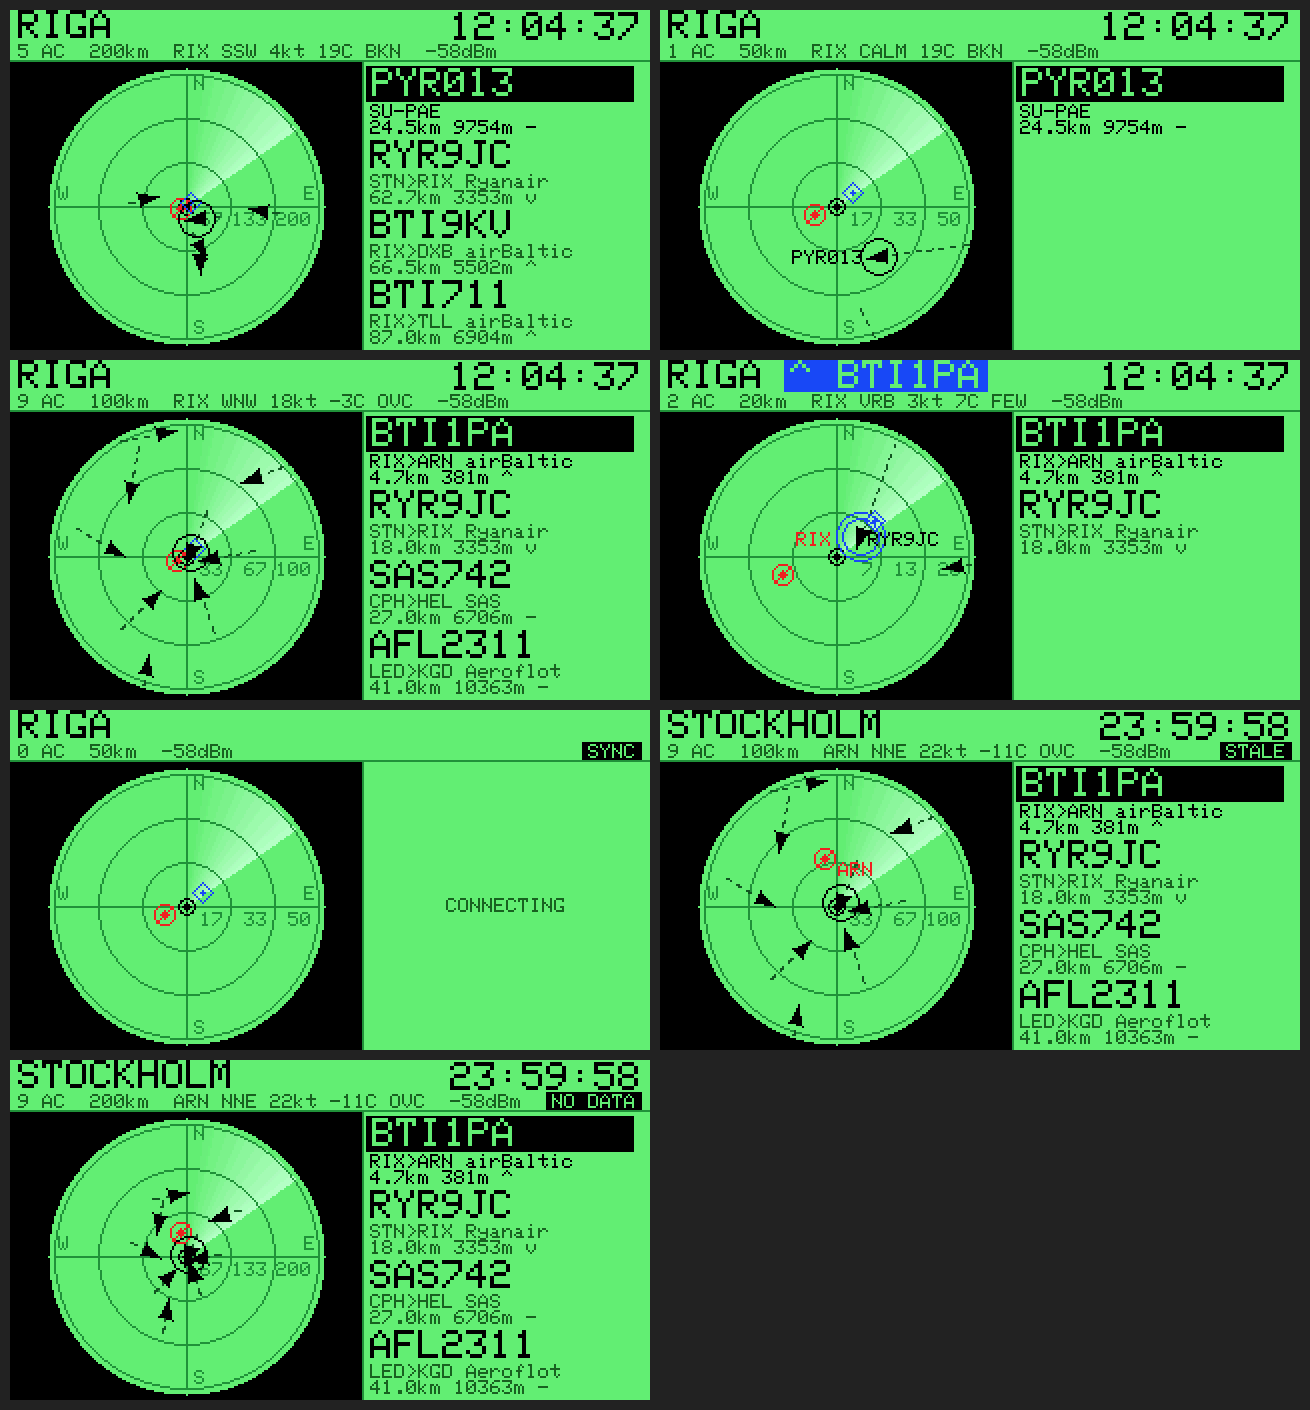
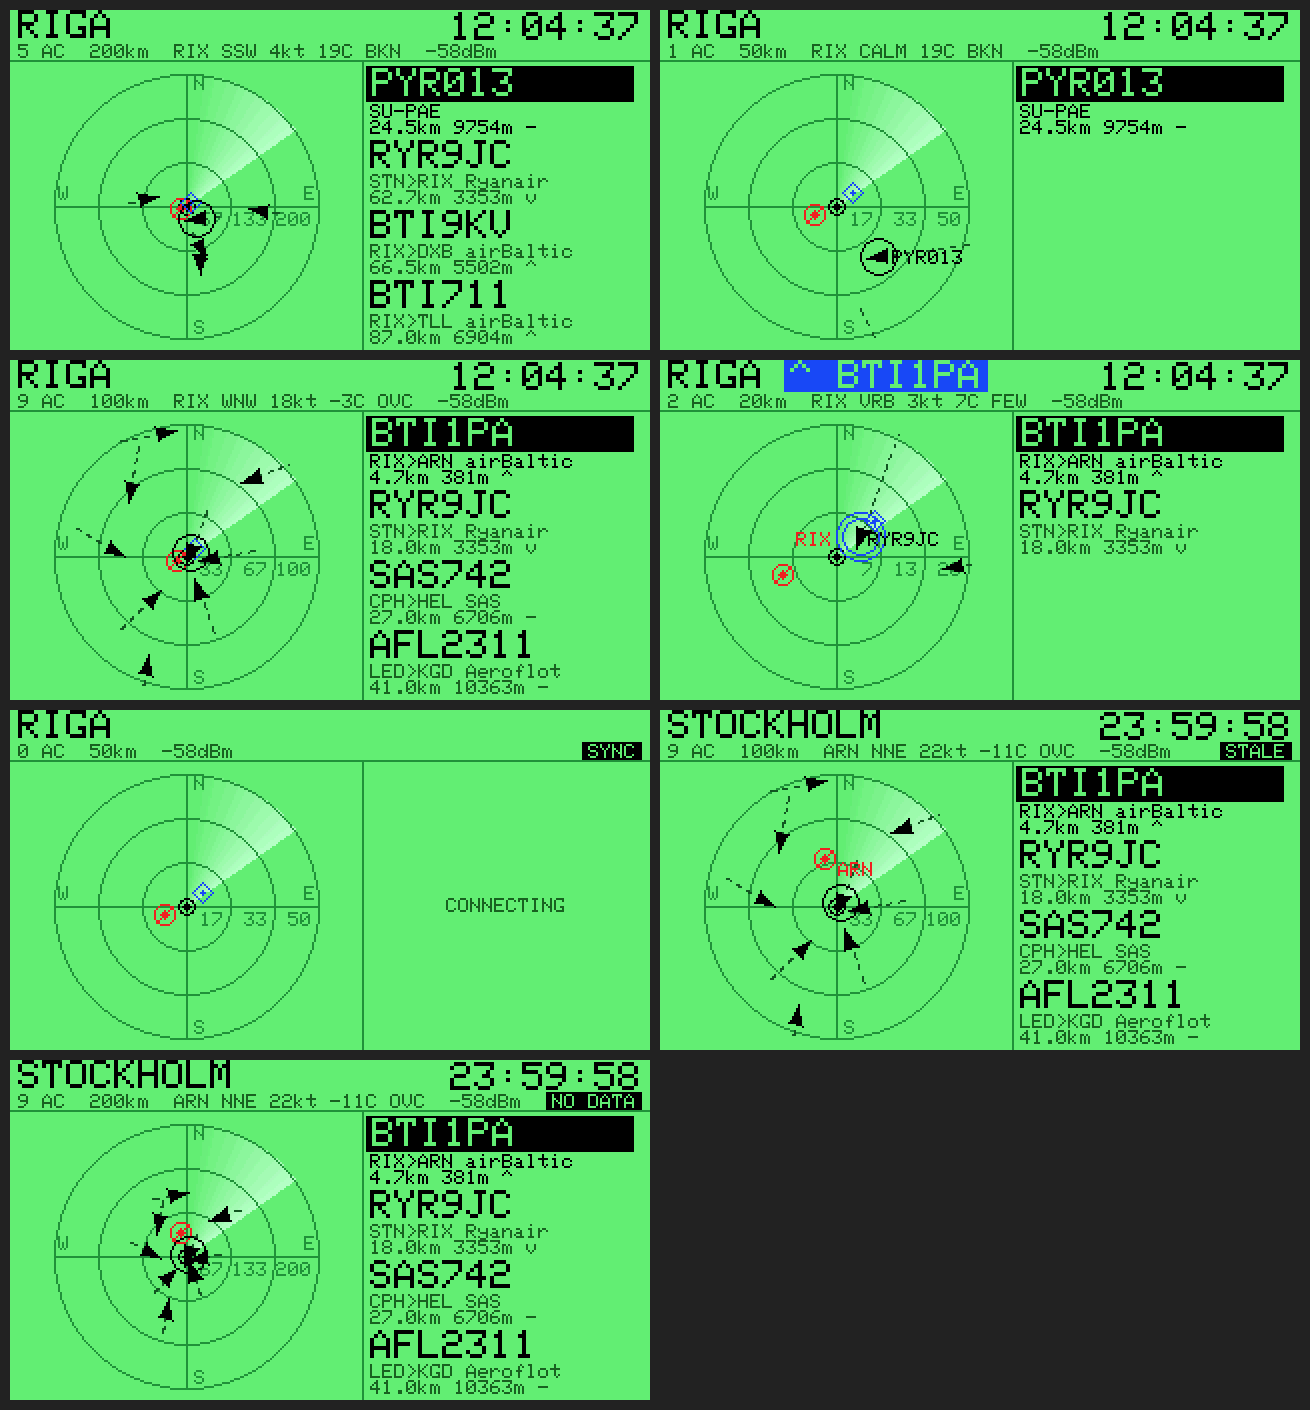
Drop the black bezel, keep the margins
Green ground everywhere again. The smaller radar stays, so the 3px clearance
top and bottom is unchanged, and label placement goes back to the radar block's
width now that black ink is readable anywhere in it.

diff --git a/src/radar_ui.cpp b/src/radar_ui.cpp
@@ -136,23 +136,16 @@ void drawSweep(Arduino_GFX* g, const Frame& f) {
 // selected range cannot scribble across the header or the side panel.
 void plotInScope(Arduino_GFX* g, int x, int y, uint16_t colour) {
     int dx = x - RADAR_CX, dy = y - RADAR_CY;
-    if (dx * dx + dy * dy > RADAR_DISC_R * RADAR_DISC_R) return;
+    if (dx * dx + dy * dy > RADAR_PLOT_R * RADAR_PLOT_R) return;
     if (y < HEADER_H) return;
     g->drawPixel(x, y, colour);
 }
 
 constexpr double DASH_ON = 3.0, DASH_OFF = 3.0;
 
-// Half-width of the green face at a given screen row.
-double discHalfWidth(int y) {
-    double dy = (double)(y - RADAR_CY);
-    double v = (double)RADAR_DISC_R * RADAR_DISC_R - dy * dy;
-    return v > 0.0 ? sqrt(v) : 0.0;
-}
-
-// Places a size-1 label beside a point on the radar, keeping every pixel of it
-// on the green face. Black ink on the black bezel would simply disappear, so a
-// label that cannot fit is not drawn at all.
+// Places a size-1 label beside a point on the radar, kept inside the radar
+// block so it can never bleed into the side panel. Returns false if it will not
+// fit at all.
 bool placeLabel(int x, int y, int w, int& lx, int& ly) {
     ly = y + 2;
     // Keep clear of the ring-distance strip below the east axis.
@@ -160,8 +153,7 @@ bool placeLabel(int x, int y, int w, int& lx, int& ly) {
     if (ly < HEADER_H + 1) ly = HEADER_H + 1;
     if (ly > 170 - CH_H1) ly = 170 - CH_H1;
 
-    double hw = fmin(discHalfWidth(ly), discHalfWidth(ly + CH_H1 - 1));
-    int left = RADAR_CX - (int)hw, right = RADAR_CX + (int)hw;
+    const int left = 1, right = PANEL_X - 6;
 
     lx = x + 7;
     if (lx + w > right) lx = x - 7 - w;   // flip to the inboard side
@@ -436,9 +428,6 @@ void drawPanel(Arduino_GFX* g, const Frame& f) {
 void draw(Arduino_GFX* g, const Frame& f) {
     g->fillScreen(C_GROUND);
     drawHeader(g, f);
-    // Black block behind the scope, then the green face punched back into it.
-    g->fillRect(0, HEADER_H, PANEL_X - 4, 170 - HEADER_H, C_BEZEL);
-    g->fillCircle(RADAR_CX, RADAR_CY, RADAR_DISC_R, C_GROUND);
     drawSweep(g, f);
     drawRadarGrid(g, f.rangeKm);
     drawTrails(g, f);

diff --git a/src/config.h b/src/config.h
@@ -39,10 +39,6 @@
 // aircraft go, blue is where you are standing.
 #define C_HOME C_RGB(24, 72, 240)
 
-// The scope sits on a black bezel, so the radar face reads as an instrument
-// rather than as a circle drawn on the page. In the classic scheme the ground
-// is already black and the bezel simply disappears.
-#define C_BEZEL C_RGB(0, 0, 0)
 
 // Secondary panel text: darker than the rings so it stays legible at text
 // size 1, lighter than the ink so it still reads as subordinate.
@@ -171,8 +167,9 @@ static const int HEADER_H     = 26;   // two rows: city + clock, then the status
 static const int RADAR_CX     = 88;
 static const int RADAR_CY     = 98;
 static const int RADAR_R      = 66;   // outer ring
-static const int RADAR_DISC_R = 69;   // green face; the 3px halo gives arrow
-                                      // tips and labels somewhere to sit
+static const int RADAR_PLOT_R = 69;   // nothing on the face is drawn beyond this;
+                                      // the 3px past the outer ring gives arrow
+                                      // tips and trails somewhere to land
 static const int RADAR_MARGIN = 3;    // clearance from the header and the foot
 static const int PANEL_X      = 180;
 static const int PANEL_W      = 136;
